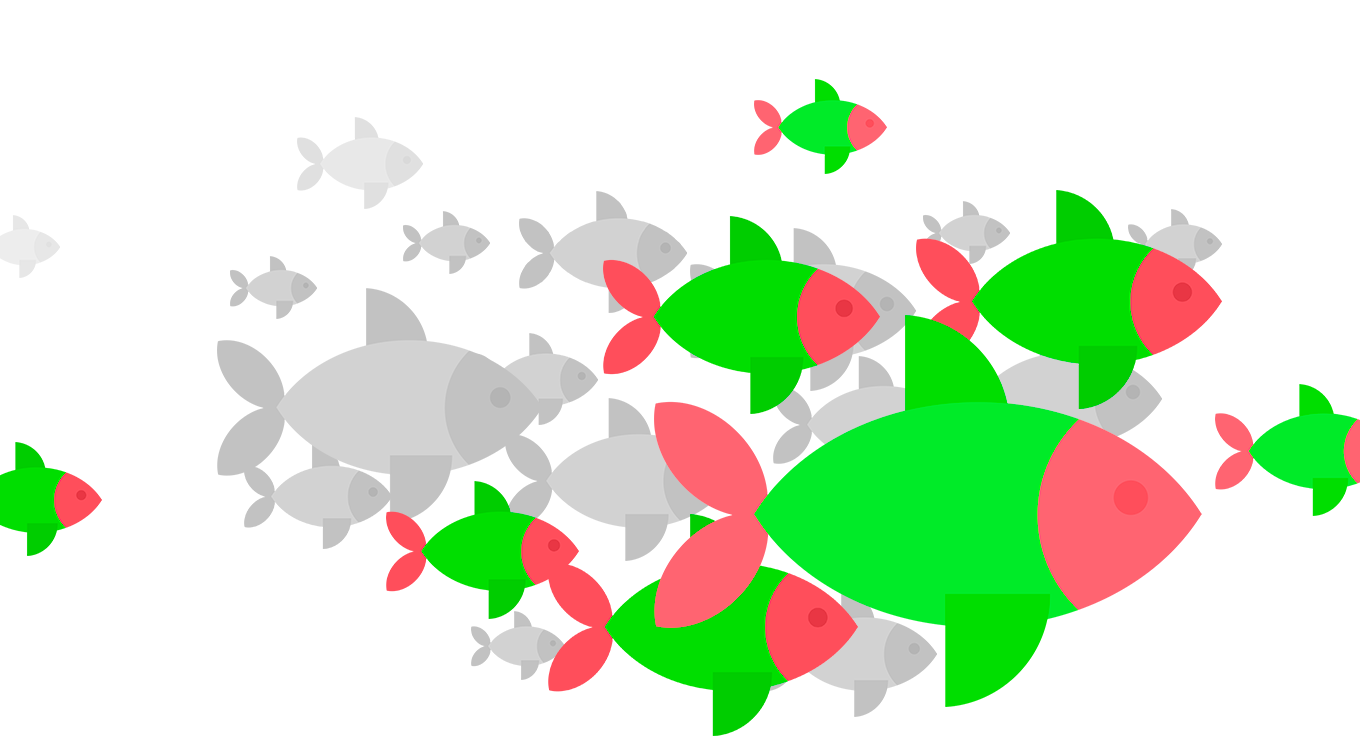
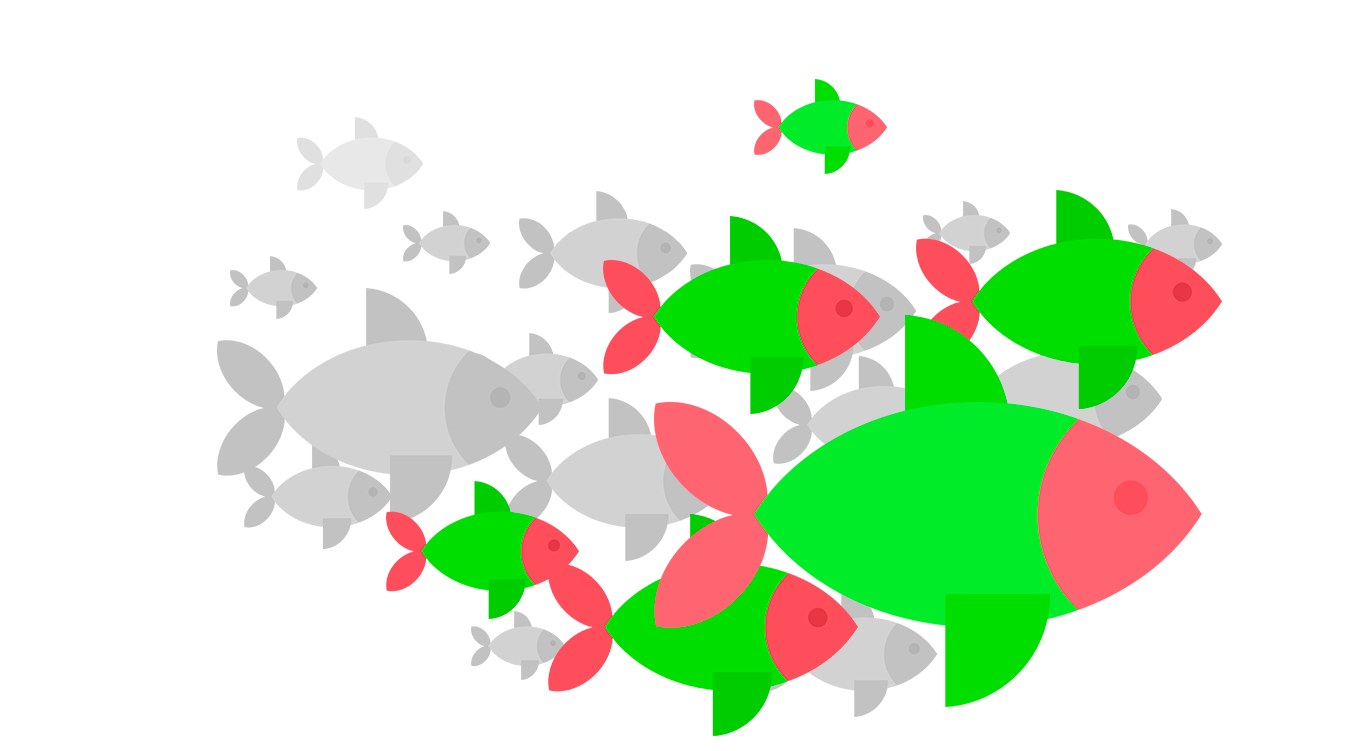
добавление 4-х иконок для навигации верхнего слайдера; фикс картинки с рыбами (удалили рыб, которым отрубило голову шириной макета); добавление css-правил для кнопочек

Changed region(s): [[0.8956, 0.5206, 1.0, 0.7044], [0.0, 0.5819, 0.0926, 0.735]]

diff --git a/assets/styles/main.css b/assets/styles/main.css
@@ -627,6 +627,7 @@ table {
   border-top-right-radius: 0;
   position: relative;
   top: 0;
+  z-index: 1;
 }
 .ac-header .header__bg-warp0 {
   position: relative;
@@ -673,6 +674,46 @@ table {
   height: 885px;
   overflow: visible;
 }
+
+.ac-header .slider-container {
+  position: relative;
+}
+.ac-header .slider-container .slider-button-prev,
+.ac-header .slider-container .slider-button-next {
+  position: absolute;
+  display: block;
+  z-index: 12;
+  -webkit-transition: all 0.4s ease;
+  -moz-transition: all 0.4s ease;
+  -ms-transition: all 0.4s ease;
+  -o-transition: all 0.4s ease;
+  transition: all 0.4s ease;
+}
+
+.ac-header .slider-container .slider-button-prev {
+  background: transparent url('../images/slider/h-left.png') 0 0 no-repeat;
+  width: 26px;
+  height: 40px;
+  left: 140px;
+  top: 40%;
+}
+.ac-header .slider-container .slider-button-prev:hover {
+  background: transparent url('../images/slider/h-left_h.png') 0 0 no-repeat;
+  cursor: pointer;
+}
+
+.ac-header .slider-container .slider-button-next {
+  background: transparent url('../images/slider/h-right.png') 0 0 no-repeat;
+  width: 52px;
+  height: 80px;
+  right: 140px;
+  top: 40%;
+}
+.ac-header .slider-container .slider-button-next:hover {
+  background: transparent url('../images/slider/h-right_h.png') 0 0 no-repeat;
+  cursor: pointer;
+}
+
 .ac-header-warp {
   display: block;
   -webkit-transition: all 0.4s ease;
